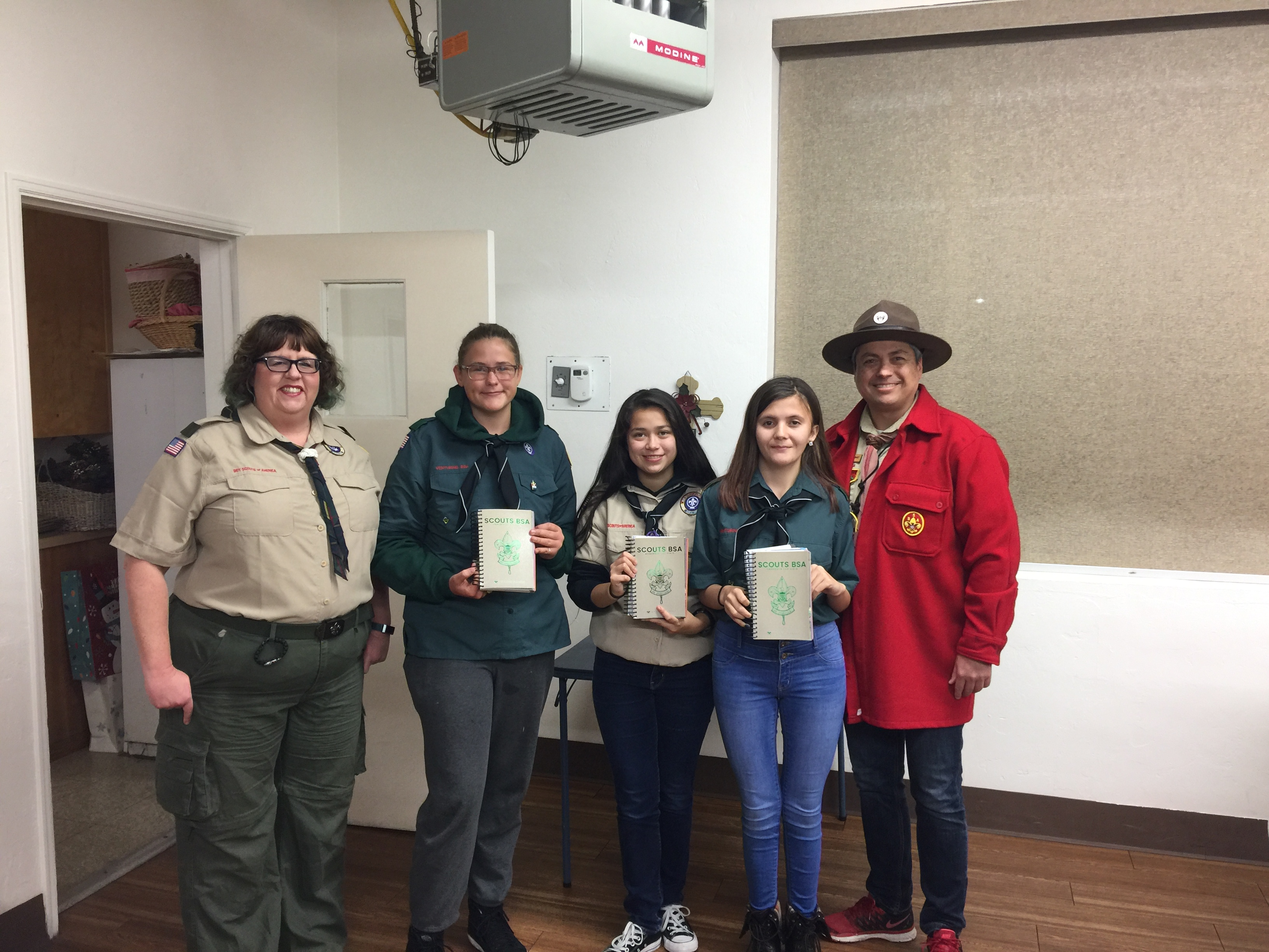
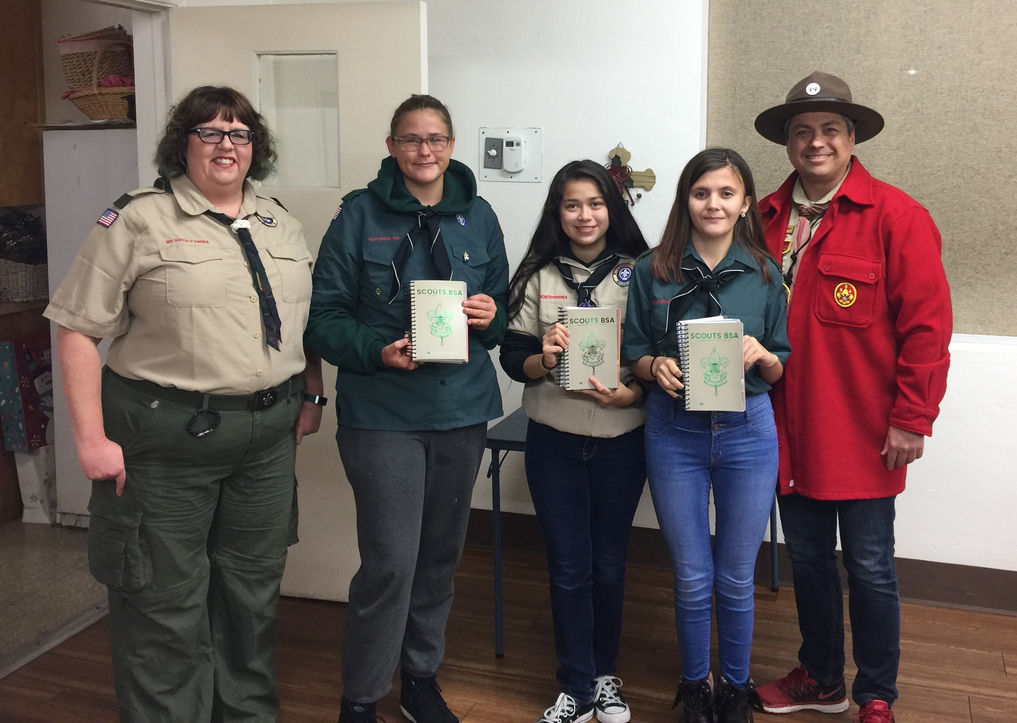
Update colors, photos, layout

diff --git a/src/_includes/home.html b/src/_includes/home.html
@@ -1,36 +1,33 @@
 <div class="home-container">
-  <div class="image-container">
+  <div class="troop-image">
     <img src="assets/images/TroopPhoto.jpg" />
   </div>
-
-  <div class="text-container">
-    <h2>SCOUT ME IN</h2>
-    <p>
-      Troop 866G is a Scouts BSA Girl Troop located in Imperial Beach,
-      California.
-    </p>
-    <p>
-      As a group of motivated girls and young women, we live the values of
-      Scouting and strive for excellence in all we do.
-    </p>
-    <ul>
-      <li>
-        There are over 135 merit badges that Scouts can earn, including Camping,
-        Emergency Preparedness, Journaling, and Environmental Science.
-      </li>
-      <li>
-        There are 7 ranks that Scouts can advance through, including the
-        prestigious Eagle Scout rank.
-      </li>
-      <li>
-        We work on attaining these achievements during weekly meetings and
-        monthly outdoor events.
-      </li>
-    </ul>
-    <h2>Interested in joining us?</h2>
-    <p>
-      We meet every Monday at 6:15PM at St. James Lutheran Church, 866 Imperial
-      Beach Blvd.
-    </p>
-  </div>
+  <img class="map-image" src="assets/images/Imperial_Beach.png" />
 </div>
+
+<h2>
+  Troop 866G is a Scouts BSA Girl Troop located in Imperial Beach, California.
+</h2>
+<p>
+  As a group of motivated girls and young women, we live the values of Scouting
+  and strive for excellence in all we do.
+</p>
+<ul>
+  <li>
+    There are over 135 merit badges that Scouts can earn, including Camping,
+    Emergency Preparedness, Journaling, and Environmental Science.
+  </li>
+  <li>
+    There are 7 ranks that Scouts can advance through, including the prestigious
+    Eagle Scout rank.
+  </li>
+  <li>
+    We work on attaining these achievements during weekly meetings and monthly
+    outdoor events.
+  </li>
+</ul>
+<h2>Interested in joining us?</h2>
+<p>
+  We meet every Monday at 6:15PM at St. James Lutheran Church, 866 Imperial
+  Beach Blvd.
+</p>

diff --git a/src/assets/main.scss b/src/assets/main.scss
@@ -3,23 +3,65 @@
 
 @import "minima";
 
+body {
+  color: #232528;
+}
+
+h1 {
+  font-size: 3em;
+  color: #003f87;
+}
+
 .wrapper {
   max-width: -webkit-calc(1000px - (30px * 2));
   max-width: calc(1000px - (30px * 2));
 }
 
+.site-header {
+  border-top: 5px solid #ce1126;
+  border-bottom: 0px;
+}
+
+.header-container {
+  display: grid;
+  grid-template-columns: 40% 60%;
+  grid-template-rows: auto;
+  align-items: center;
+  grid-template-areas: "header-text header-logo";
+  margin-top: 5px;
+}
+
+.header-text {
+  grid-area: header-text;
+  align-self: center;
+  margin: 0px;
+}
+
+.header-logo {
+  max-height: 80px;
+  grid-area: header-logo;
+  justify-self: end;
+}
+
 .home-container {
   display: grid;
-  grid-template-columns: 50% 50%;
+  grid-template-columns: 65% 35%;
   grid-template-rows: auto;
-  grid-template-areas: "image-container text-container";
-  grid-gap: 0px 40px;
+  grid-template-areas: "troop-image map-image";
+  margin-bottom: 30px;
 }
 
-.image-container {
-  grid-area: image-container;
+.troop-image {
+  grid-area: troop-image;
+  padding-right: 30px;
 }
 
-.text-container {
-  grid-area: text-container;
+// .home-text {
+//   grid-area: home-text;
+//   margin-bottom: 0px;
+//   align-self: end;
+// }
+
+.map-image {
+  grid-area: map-image;
 }

diff --git a/src/_includes/header.html b/src/_includes/header.html
@@ -1,4 +1,9 @@
 <header class="site-header" role="banner">
-  <div class="wrapper">
-    <a class="site-title" rel="author" href="/">{{ site.title }}</a>
+  <div class="wrapper header-container">
+    <h1 class="header-text">TROOP 866G</h1>
+    <img
+      class="header-logo"
+      src="assets/images/Prepared_For_Life_Standard_Color.jpg"
+    />
+  </div>
 </header>

diff --git a/README.md b/README.md
@@ -1,3 +1,5 @@
 # troop-866G
 
 The website for Scouts BSA Girl Troop 866.
+
+Style resources from: [BSA Brand Center](https://scouting.webdamdb.com/bp/#/) and [BSA Digital Brand Guidelines](https://scene.zeplin.io/project/59b6b6554fc4d8840a822300).
